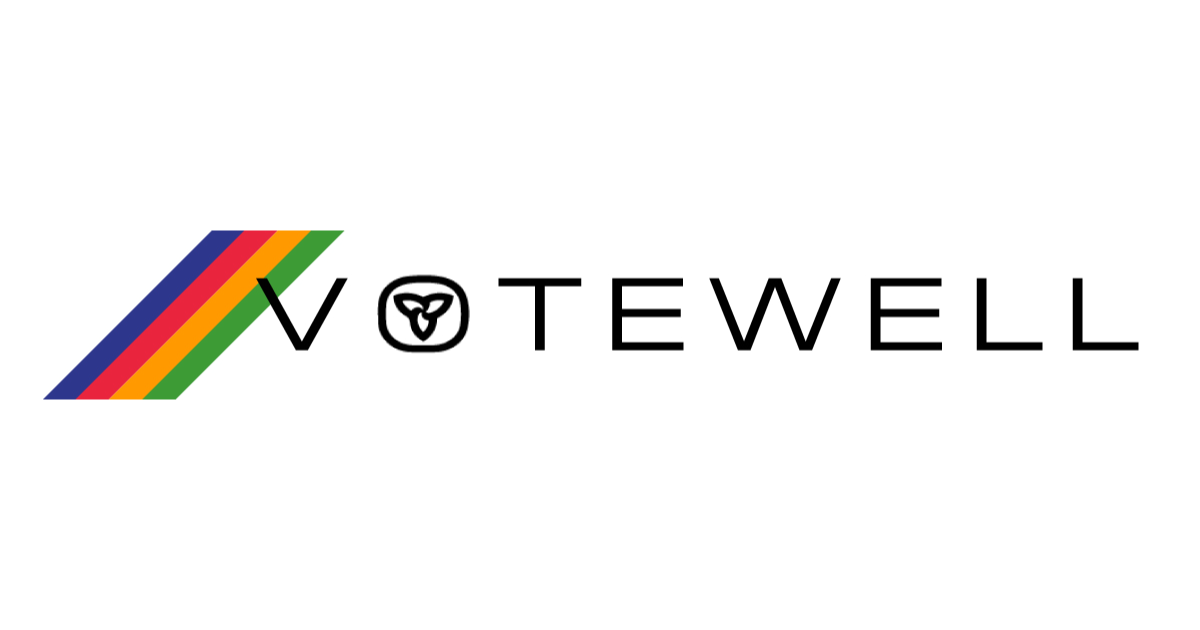
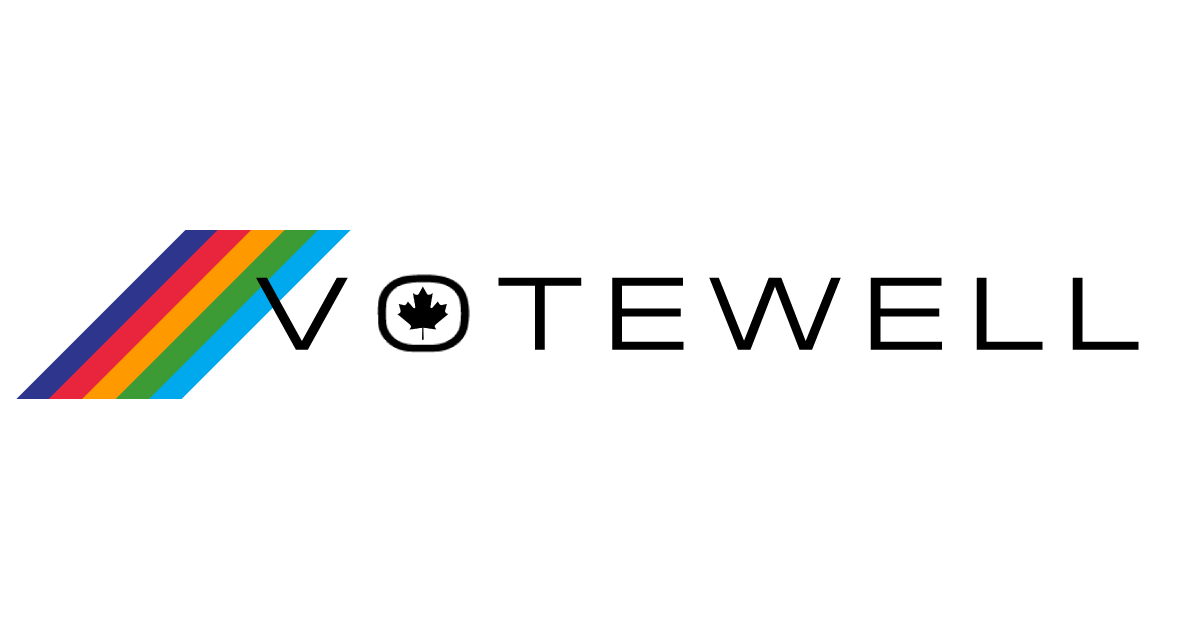
update og share image

diff --git a/index.html b/index.html
@@ -10,7 +10,7 @@
     <meta name="viewport" content="width=device-width, initial-scale=1.0" />
 
     <meta property="og:url" content="https://votewell.ca" />
-    <meta property="og:image" content="https://votewell.ca/votewell.bdaf2c32.png" />
+    <meta property="og:image" content="https://votewell.ca/votewell.dcc66bbe.png" />
     <meta property="og:description" content="A strategic voting tool for the 2019 Canadian federal election" />
 
     <link rel="icon" type="image/png" sizes="128x128" href="https://votewell.ca/favicon-128x128.66e0ce34.png">
